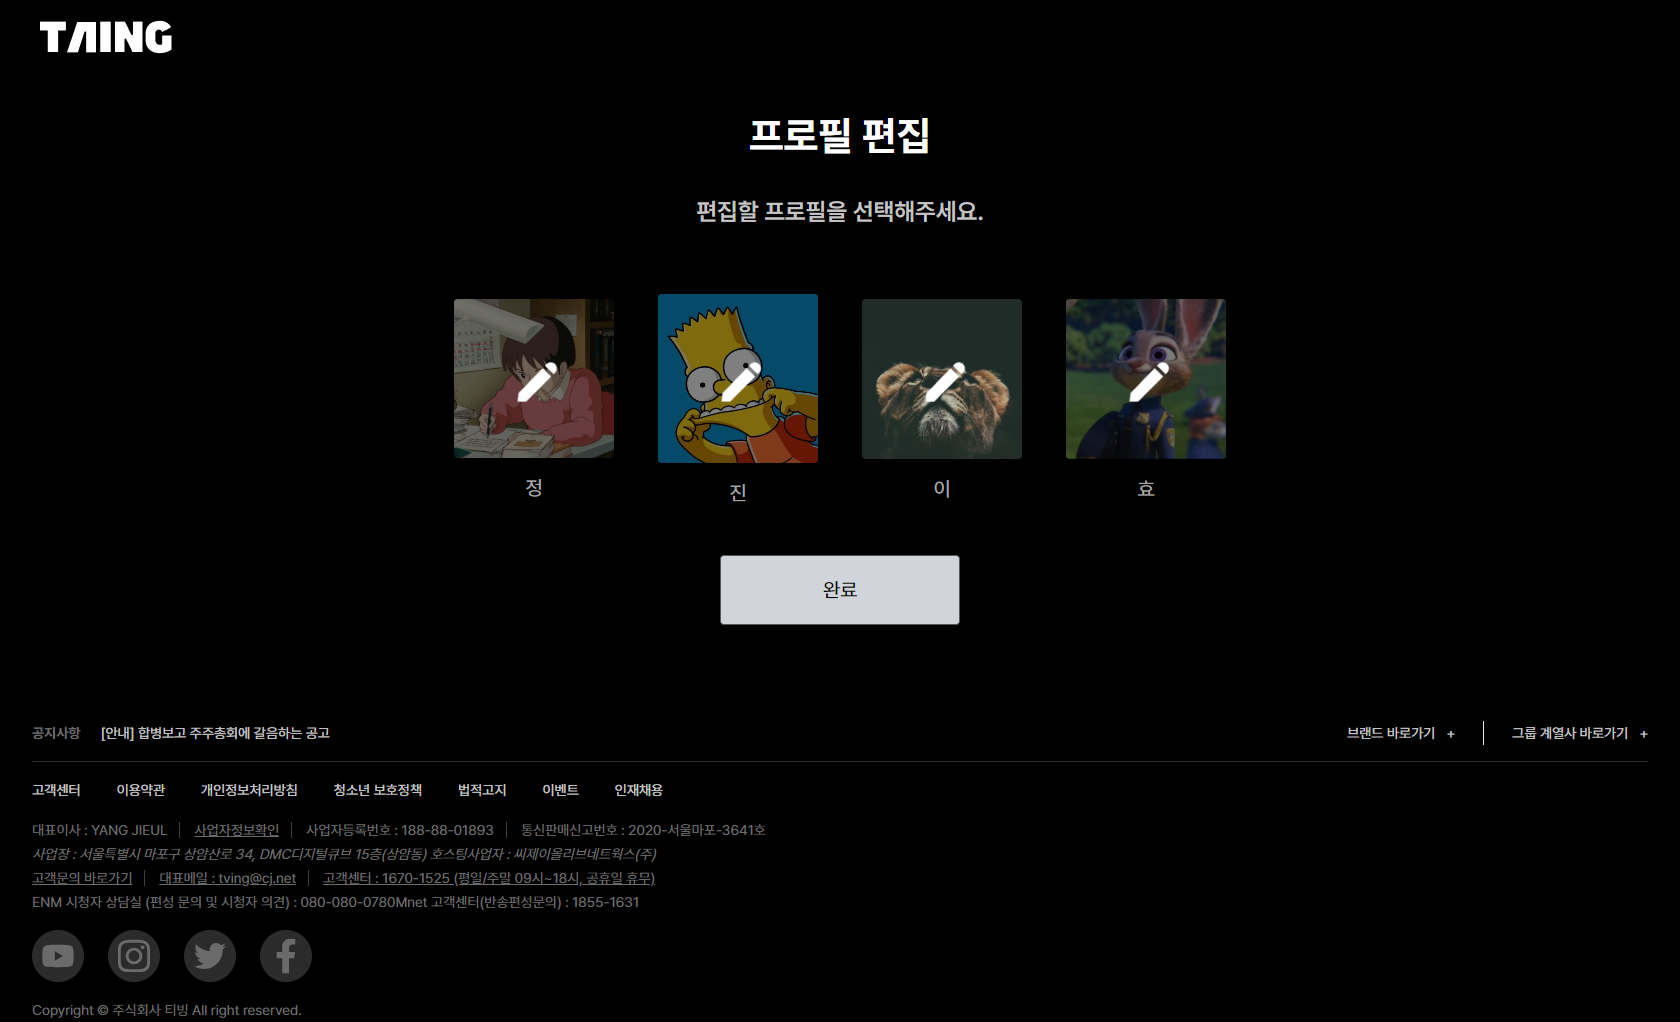
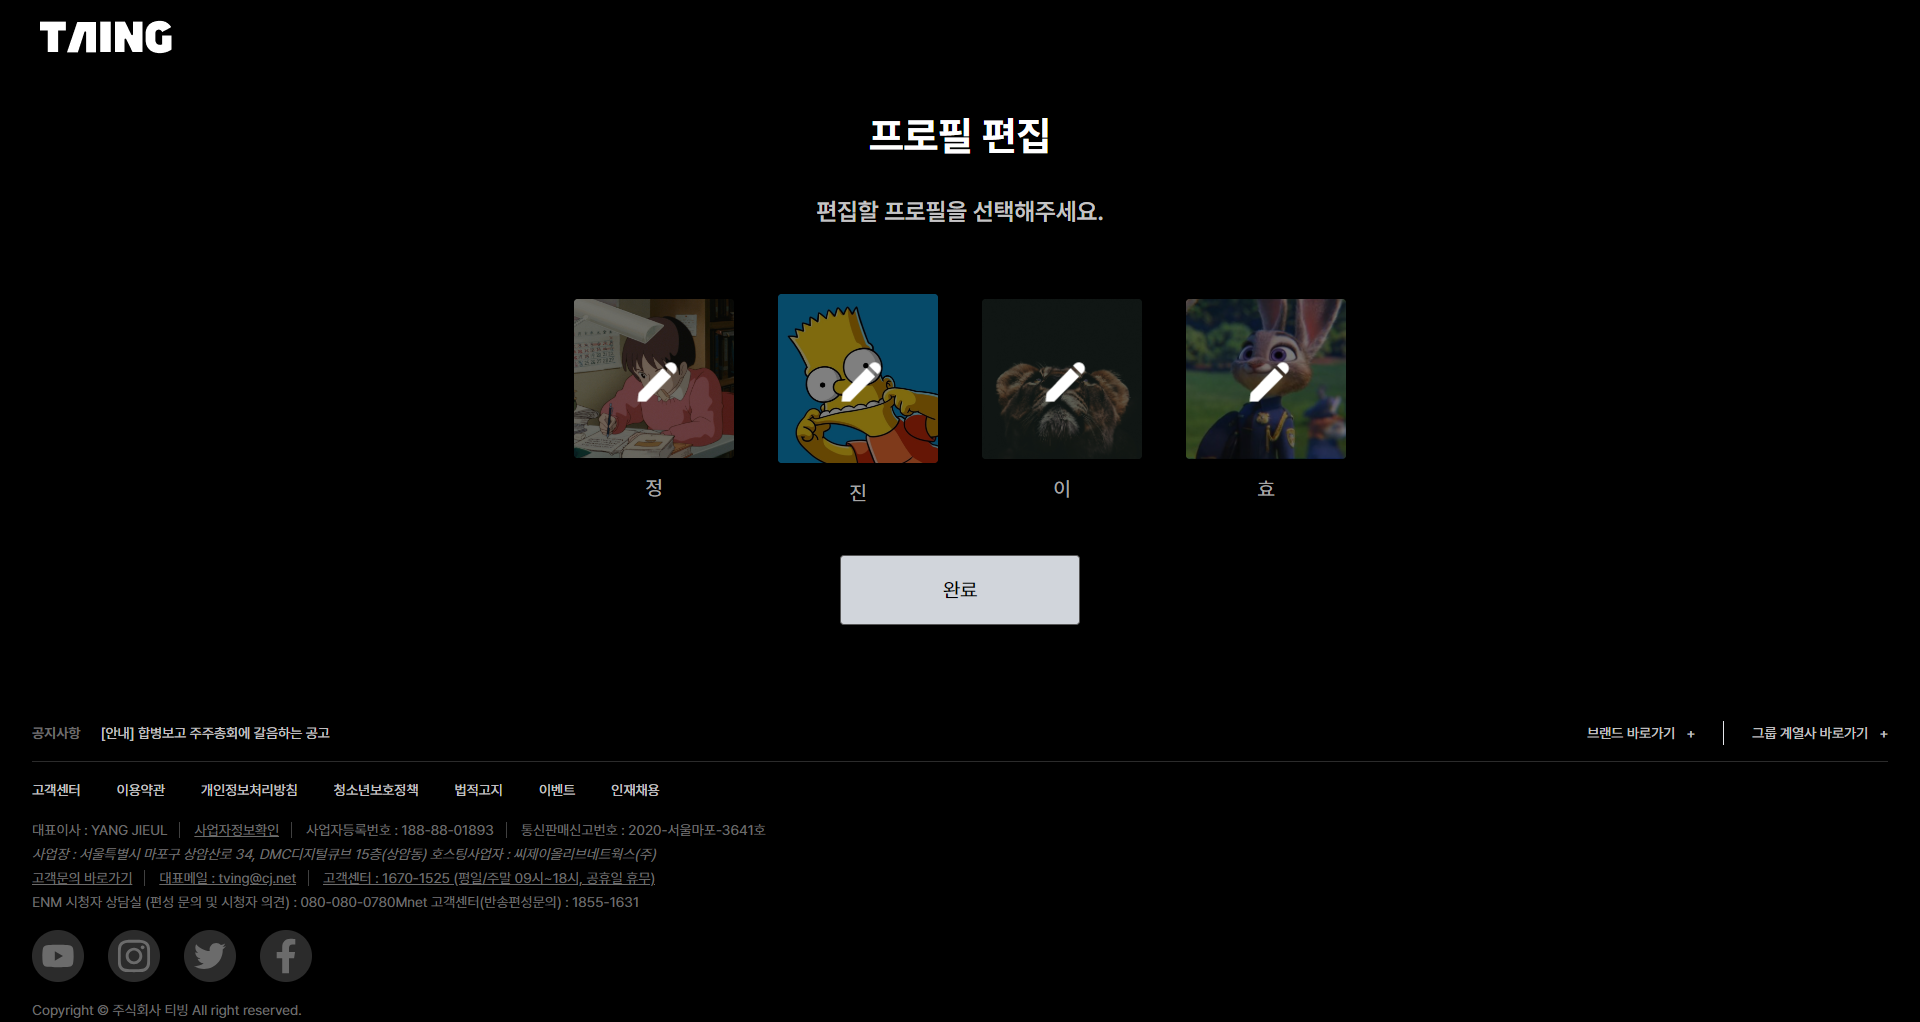
README 변경 및 추가 내용 반영

diff --git a/mission02/README.md b/mission02/README.md
@@ -5,6 +5,10 @@
   - [프로필 페이지](#프로필-페이지)
   - [폴더 구성](#폴더-구성)
   - [JSX](#jsx)
+    - [main, routes, App](#main-routes-app)
+    - [Profile](#profile)
+    - [ProfileList](#profilelist)
+    - [footer](#footer)
 
 ## 구현
 ![Alt text](./public/프로필선택.png)
@@ -28,6 +32,8 @@ logo와 footer의 SNS 이미지 같은 정적 이미지는 `public`에 넣고,
 `page`에서 `Profile 페이지` 컴포넌트를 만들고, 그 안의 요소들을 컴포넌트로 `List`, `Text`, `Title`로 나누었다.  
 
 ## JSX
+### main, routes, App
+
 ```JSX
 //main.jsx
 ReactDOM.createRoot(document.getElementById('root')).render(
@@ -44,8 +50,8 @@ const router = createBrowserRouter([
     path: '/',
     element: <App />,
     children: [
-      { index: true, element: <Profile select /> },
-      { path: 'edit', element: <Profile /> },
+      { index: true, element: <Profile select title="프로필 선택" /> },
+      { path: 'edit', element: <Profile title="프로필 편집" /> },
     ],
   },
 ]);
@@ -69,9 +75,10 @@ function App() {
 ```
 `App.jsx` 파일에 `Header`와 `Footer` 컴포넌트를 넣고 `main` 태그를 넣어 레이아웃을 구성했다. `main` 태그 안에 `Router`의 `children`들을 `Outlet`으로 넣었다.
 
+### Profile
 ```jsx
 //Profile.jsx
-export default function Profile({select}) {
+export default function Profile({select, title}) {
   return (
     <section className="mx-auto mb-24 mt-12 w-[70%]">
       <ProfileTitle>프로필 {select ? '선택' : '편집'}</ProfileTitle>
@@ -95,24 +102,38 @@ export default function Profile({select}) {
 버튼도 페이지별로 나누어 현 페이지에 맞게 나타나도록 했고, `NavLink`를 사용해 페이지 간의 이동이 가능하도록 했다.
 
 ```jsx
+//Profile.jsx
+  const [pagetitle, setTitle] = useState('');
+
+  useEffect(()=> {
+    setTitle(title);
+    document.title = `TAING - ${pagetitle}`;
+  }, [pagetitle, title])
+```
+
+`useEffect`와 `useState` 훅을 사용해 `routes.jsx`에서 props로 전달하는 `title`을 감지해 페이지 제목을 나타내도록 했다.
+
+### ProfileList
+
+```jsx
 //ProfileList.jsx
 //useState, useEffect
   let [list, setList] = useState([]);
 
   useEffect(() => {
     async function fetchlists() {
-      const response = await fetch('/server/db/data.json');
+      const response = await fetch("http://127.0.0.1:3000/api/collections/profile/records")
       if(!response.ok) {
         console.log(response.ok)
       }
       const data = await response.json();
-      setList(Object.entries(data.users))
+      setList(data.items)
     }
     fetchlists();
   }, [])
 ```
 
-프로필 목록 정보를 갖고 있는 json 파일을 비동기 통신으로 불러와 `useEffect` 훅으로 최초 실행 시 렌더링 되도록 했다.  
+pocketbase로 담은 프로필 목록을 비동기 통신으로 불러와 `useEffect` 훅으로 최초 실행 시 렌더링 되도록 했다.  
 
 ```jsx
 //ProfileList.jsx
@@ -123,7 +144,7 @@ export default function ProfileList({selected, icon}) {
       {
         list?.map((item) => { 
           return (
-            <li key={item[0]} className="text-gray3">
+            <li key={item.nickname} className="text-gray3">
               <a
                 href={`./${icon === 'lock' ? '' : 'edit'}`}
                 className="text-gray3"
@@ -132,17 +153,17 @@ export default function ProfileList({selected, icon}) {
                   className="relative duration-500 ease-linear hover:-translate-y-[5%]"
                 >
                   <img
-                    src={`./src/assets/${item[1]}`}
-                    alt={`${item[0]} 프로필`}
+                    src={`./src/assets/${item.src}`}
+                    alt={`${item.nickname} 프로필`}
                     className="w-40 flex-col gap-y-4 rounded"
                   />
                   <div
                     className={`absolute bottom-0 left-0 right-0 top-0 rounded 
-                      ${item[0] !== selected ? 'bg-black/[.5]' : ''}`}
+                      ${item.nickname === selected && icon === 'lock' ? '' : 'bg-black/[.5]'}`}
                   >
                     {
                       (icon === 'lock' &&
-                      item[0] === selected) || 
+                      item.nickname === selected) || 
                       <img
                         src={`./src/assets/${icon}.png`}
                         alt="자물쇠"
@@ -152,7 +173,7 @@ export default function ProfileList({selected, icon}) {
                     }
                   </div>
                 </div>
-                <p className="py-4 text-center text-xl text-gray3">{item[0]}</p>
+                <p className="py-4 text-center text-xl text-gray3">{item.nickname}</p>
               </a>
             </li>
           )
@@ -163,21 +184,63 @@ export default function ProfileList({selected, icon}) {
 }
 ```
 
-json에서 갖고 온 데이터를 배열로 바꾸어 데이터에 있는 프로필 개수만큼 렌더링 되도록 map을 사용했다.
+`pocketbase`에서 갖고 온 배열 데이터를 배열 수(프로필 개수)만큼 렌더링 되도록 map을 사용했다.
 
-선택 페이지와 편집 페이지는 이미지를 덮고 있는 아이콘이 다르다. 또 선택 페이지에서 선택된 프로필만 투명도가 0이며, 나머지 프로필에만 자물쇠 아이콘이 있다. 편집 페이지에서는 모든 프로필 이미지에 연필 아이콘이 있다.  
+두 페이지의 차이점으로는 선택 페이지와 편집 페이지는 이미지를 덮고 있는 아이콘이 다르다. 또 선택 페이지에서 선택된 프로필만 투명도가 0이며, 나머지 프로필에만 자물쇠 아이콘이 있다. 편집 페이지에서는 모든 프로필 이미지에 연필 아이콘이 있고, 모든 프로필에 투명도가 50% 들어간다.  
 
 아래와 같은 조건식으로 문제를 해결했다.
 
 ```jsx
-{
-  (icon === 'lock' &&
-  item[0] === selected) || 
-  <img
-    src={`./src/assets/${icon}.png`}
-    alt="자물쇠"
-    className={`absolute left-[calc(50%-1.5625rem)] top-[calc(50%-1.5625rem)] w-14 h-14 brightness-200 
-      ${icon === 'lock' ? 'invert-[80%]' : ''}`}
-  />
-}
+<div
+  className={`absolute bottom-0 left-0 right-0 top-0 rounded 
+    ${item.nickname === selected && icon === 'lock' ? '' : 'bg-black/[.5]'}`}
+>
+  {
+    (icon === 'lock' &&
+    item[0] === selected) || 
+    <img
+      src={`./src/assets/${icon}.png`}
+      alt="자물쇠"
+      className={`absolute left-[calc(50%-1.5625rem)] top-[calc(50%-1.5625rem)] w-14 h-14 brightness-200 
+        ${icon === 'lock' ? 'invert-[80%]' : ''}`}
+    />
+  }
+</div>
 ```
+
+### footer
+```js
+//footerData.js
+export const footerMenuList = [
+  `고객센터`,
+  `이용약관`,
+  `개인정보처리방침`,
+  `청소년보호정책`,
+  '법적고지',
+  '이벤트',
+  '인재채용',
+];
+
+export const footerSnsList = [
+  { 유튜브: 'youtube' },
+  { 인스타그램: 'instagram' },
+  { 트위터: 'twitter' },
+  { 페이스북: 'facebook' },
+];
+```
+
+```jsx
+//FooterMenu
+<ul className="flex text-gray2 gap-[36px] my-4">
+  {footerMenuList.map((item) => <FooterMenu key={item}>{item}</FooterMenu>)}
+</ul>
+
+//footerSns
+<ul className="flex items-center gap-6 my-4">
+  {footerSnsList.map(item => {
+    return <FooterSns key={Object.keys(item)} sns={item}></FooterSns>
+  })}
+</ul>
+```
+
+`footer`에서 반복적으로 사용되는 list(menu, sns)를 컴포넌트로 만들어서 렌더링했다. menu, sns의 내용을 footerData.js에 담았고, jsx에서 불러와 렌더링했다.
